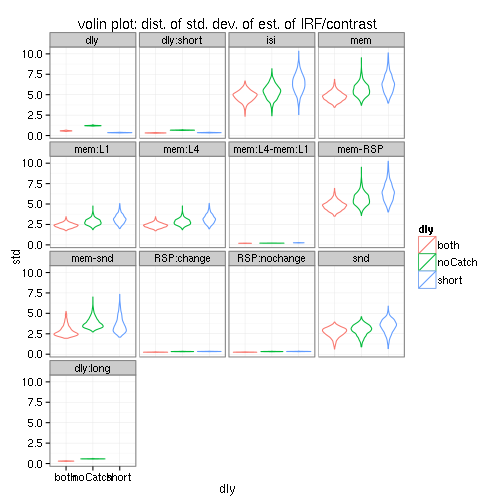
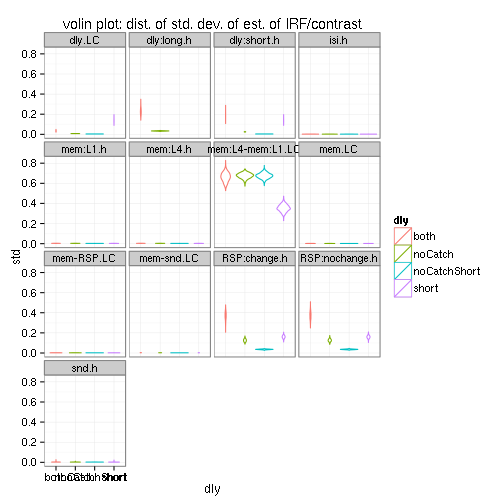
see power, add noCatch short

Changed region(s): [[0.0298, 0.0298, 0.9524, 0.9524], [0.4167, 0.9524, 0.4762, 0.9821], [0.506, 0.2381, 0.5357, 0.2679]]

diff --git a/timing/timingInfo.md b/timing/timingInfo.md
@@ -1,37 +1,69 @@
 # WM Timing
-There are 36 trials to schedule in 360 seconds. Trials types (high/low load + same/different) occur equally. 1/3 are catch. 
+There are `n` trials to schedule in 360 seconds. Trials types (high/low load + same/different) occur equally. If catch trials are used, 1/3 of all are catch (1/2 before dly, 1/2 after dly). If varable delay is used on noCatch and "both". Delays are `1s` and `3s`, distributed evenly.
+
+1. snd (cue )
+1. isi
+1. mem (load1 or load4)
+1. [possible catch]
+1. dly (short (1s) or long (3s) )
+1. [possible catch]
+1. RSP (response, aka probe: change and nochange)
+
 1000 random schedules are created with exponentially sampled ITI and ISI with and without (1000 ea) variable delay, see `mk1dWM.pl` and `mk1dWM_vardly.pl`. The `1D` description of the schedule is fed to `3dDecovolve -nodata` and the `norm. std. dev.` extracted for contrasts of interest. See page 83 of [3dDeconvolve manual](http://afni.nimh.nih.gov/pub/dist/doc/manual/3dDeconvolve.pdf): lower std is more power, **want small values**.
 
+|          |both|noCatch|short|noCatchShort|
+|----      |----|-------|-----|------------|
+|ITI       |2.5 | 2     |7.5  |2.5         |
+|fullTrials| 36 |48     |36   |48          |
+|trials    | 48 |48     |48   |48          |
+
+
+```r
+# Power = Pr(Z>x)  where Z ~ N(0,1)
+k=3   # alpha=.0013
+s=15  # mesure error std dev
+AB=10 # a>b by 10 IRF of A 10 units greater than B
+erf <- function(x) 2 * pnorm(x * sqrt(2)) - 1
+prz <- function(x) 1-1/2*(1+erf(x/sqrt(2)))
+# page 87 afni 3dDeconvolve man
+afniprz <- function(x) prz(k-AB/(s*x) )
+```
 
 
 
 ## Ranges
 
 ```
-##       dly std.mem:L1 std.isi std.dly:short std.RSP:nochange std.RSP:change
-## 1    both     1.7296  2.3571        0.2728           0.2203         0.2262
-## 2    both     3.4516  6.6791        0.3803           0.2872         0.3058
-## 3 noCatch     1.8417  2.3974        0.6213           0.2963         0.2969
-## 4 noCatch     4.7764  8.2015        0.7298           0.3680         0.3644
-## 5   short     1.9808  2.5248        0.3108           0.3041         0.3051
-## 6   short     5.0803 10.3793        0.4032           0.3816         0.3767
-##   std.mem:L4 std.snd std.mem std.mem:L4-mem:L1 std.dly std.mem-snd
-## 1     1.7190  0.6258  3.4437            0.1687  0.4942      1.9430
-## 2     3.4459  3.9428  6.8947            0.2176  0.6855      5.2482
-## 3     1.8333  0.8850  3.6690            0.2008  1.1486      2.7297
-## 4     4.7834  4.6088  9.5576            0.2278  1.3413      7.0101
-## 5     1.9629  0.6731  3.9344            0.2273  0.3108      2.0610
-## 6     5.0852  5.9056 10.1622            0.2958  0.4032      7.3597
-##   std.mem-RSP std.dly:long
-## 1      3.5036       0.2549
-## 2      6.9152       0.3474
-## 3      3.5977       0.5399
-## 4      9.5093       0.6341
-## 5      3.9950           NA
-## 6     10.2845           NA
+##            dly std.mem:L1.h std.isi.h std.dly:short.h std.RSP:nochange.h
+## 1         both       1.7296    2.3571          0.2728             0.2203
+## 2         both       3.4516    6.6791          0.3803             0.2872
+## 3      noCatch       1.6960    2.6367          0.6041             0.3232
+## 4      noCatch       3.5032    7.1479          0.6933             0.4088
+## 5 noCatchShort       2.7148    2.9761          1.9997             0.5045
+## 6 noCatchShort       5.1821    7.3294          2.7480             0.6242
+## 7        short       1.9808    2.5248          0.3108             0.3041
+## 8        short       5.0803   10.3793          0.4032             0.3816
+##   std.RSP:change.h std.mem:L4.h std.snd.h std.mem.LC std.mem:L4-mem:L1.LC
+## 1           0.2262       1.7190    0.6258     3.4437               0.1687
+## 2           0.3058       3.4459    3.9428     6.8947               0.2176
+## 3           0.3265       1.6958    0.9413     3.3863               0.1825
+## 4           0.4043       3.5037    4.3469     7.0040               0.2095
+## 5           0.5131       2.7174    1.8701     5.4288               0.1770
+## 6           0.6337       5.1919    4.3244    10.3721               0.2088
+## 7           0.3051       1.9629    0.6731     3.9344               0.2273
+## 8           0.3767       5.0852    5.9056    10.1622               0.2958
+##   std.dly.LC std.mem-snd.LC std.mem-RSP.LC std.dly:long.h
+## 1     0.4942         1.9430         3.5036         0.2549
+## 2     0.6855         5.2482         6.9152         0.3474
+## 3     1.1279         2.8240         3.4317         0.5396
+## 4     1.2632         5.6598         6.9678         0.6107
+## 5     1.9997         6.4474         4.9389             NA
+## 6     2.7480         9.3799         9.8744             NA
+## 7     0.3108         2.0610         3.9950             NA
+## 8     0.4032         7.3597        10.2845             NA
 ```
 
-![plot of chunk ranges](figure/ranges-1.png) 
+![plot of chunk ranges](figure/ranges-1.png) ![plot of chunk ranges](figure/ranges-2.png) 
 
 
 ## Best
@@ -39,8 +71,11 @@ looking at event schedule with best mem-probe separation
 
 
 ```
-##       dly memVRSP bestMvR_mean
-## 1    both  3.5036     1.616938
-## 2 noCatch  3.5977     1.828962
-## 3   short  3.9950     1.954992
+## Error in eval(expr, envir, enclos): undefined columns selected
+```
+
+```
+##     dly memVRSP bestMvR_mean
+## 1  both  3.5036     1.616938
+## 2 short  3.9950     1.954992
 ```
